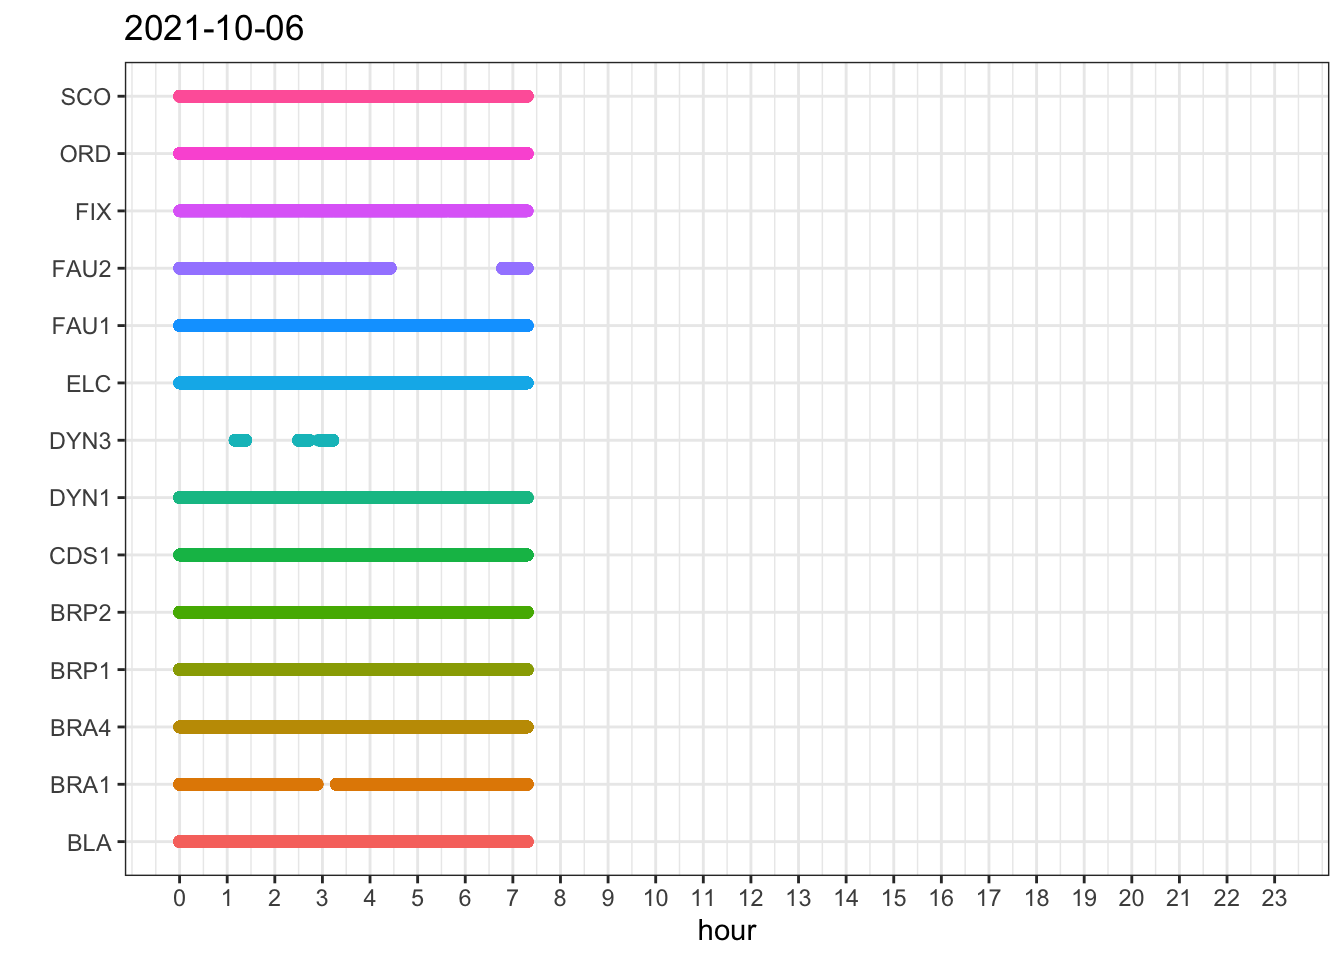
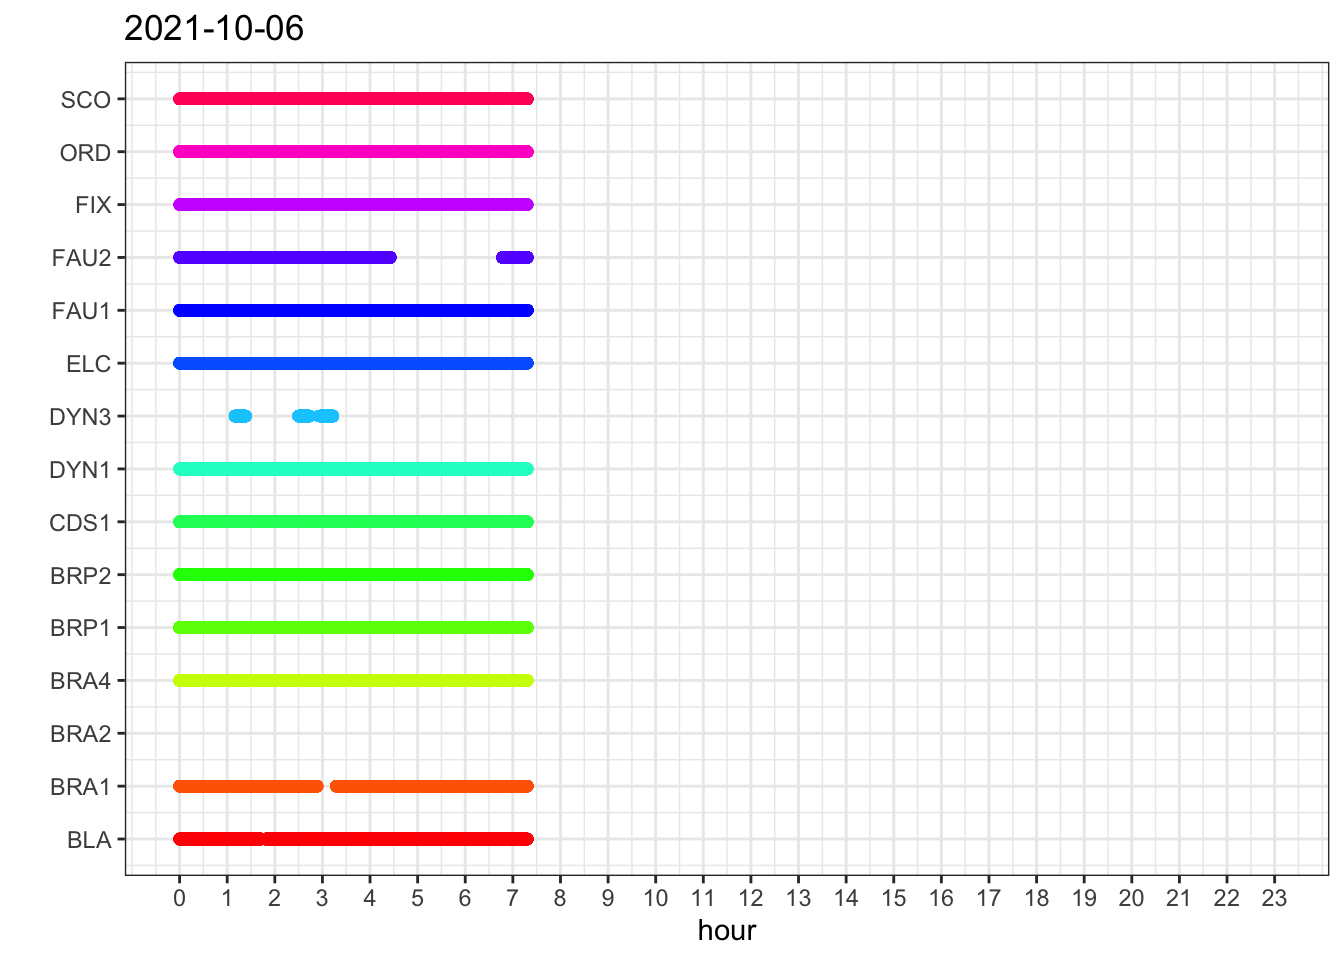
Build site.

diff --git a/docs/2021-10-06.html b/docs/2021-10-06.html
@@ -500,16 +500,16 @@ This reproducible <a href="http://rmarkdown.rstudio.com">R Markdown</a> analysis
 <div class="panel panel-default">
 <div class="panel-heading">
 <p class="panel-title">
-<a data-toggle="collapse" data-parent="#workflowr-checks" href="#strongRepositoryversionstrongahrefhttpsgithubcomcfcforeverTesttreeff40bb450d9ab301c5fcfbab0f48c366a69d336dtargetblankff40bb4a"> <span class="glyphicon glyphicon-ok text-success" aria-hidden="true"></span> <strong>Repository version:</strong> <a href="https://github.com/cfcforever/Test/tree/ff40bb450d9ab301c5fcfbab0f48c366a69d336d" target="_blank">ff40bb4</a> </a>
+<a data-toggle="collapse" data-parent="#workflowr-checks" href="#strongRepositoryversionstrongahrefhttpsgithubcomcfcforeverTesttreed4686a5b7c323b6f8fc9f6ed21d5f6a88f3306fdtargetblankd4686a5a"> <span class="glyphicon glyphicon-ok text-success" aria-hidden="true"></span> <strong>Repository version:</strong> <a href="https://github.com/cfcforever/Test/tree/d4686a5b7c323b6f8fc9f6ed21d5f6a88f3306fd" target="_blank">d4686a5</a> </a>
 </p>
 </div>
[2 lines of base64/hex data omitted]
 <div class="panel-body">
 <p>
 Great! You are using Git for version control. Tracking code development and connecting the code version to the results is critical for reproducibility.
 </p>
 <p>
-The results in this page were generated with repository version <a href="https://github.com/cfcforever/Test/tree/ff40bb450d9ab301c5fcfbab0f48c366a69d336d" target="_blank">ff40bb4</a>. See the <em>Past versions</em> tab to see a history of the changes made to the R Markdown and HTML files.
+The results in this page were generated with repository version <a href="https://github.com/cfcforever/Test/tree/d4686a5b7c323b6f8fc9f6ed21d5f6a88f3306fd" target="_blank">d4686a5</a>. See the <em>Past versions</em> tab to see a history of the changes made to the R Markdown and HTML files.
 </p>
 <p>
 Note that you need to be careful to ensure that all relevant files for the analysis have been committed to Git prior to generating the results (you can use <code>wflow_publish</code> or <code>wflow_git_commit</code>). workflowr only checks the R Markdown file, but you know if there are other scripts or data files that it depends on. Below is the status of the Git repository when the results were generated:
@@ -563,6 +563,40 @@ Message
 </tr>
 </thead>
 <tbody>
+<tr>
+<td>
+Rmd
+</td>
+<td>
+<a href="https://github.com/cfcforever/Test/blob/d4686a5b7c323b6f8fc9f6ed21d5f6a88f3306fd/analysis/2021-10-06.Rmd" target="_blank">d4686a5</a>
+</td>
+<td>
+cfcforever
+</td>
+<td>
+2021-10-06
+</td>
+<td>
+add new analysis
+</td>
+</tr>
+<tr>
+<td>
+html
+</td>
+<td>
+<a href="https://rawcdn.githack.com/cfcforever/Test/13b95467d5f84d183944d746008fbe00b2b87ab4/docs/2021-10-06.html" target="_blank">13b9546</a>
+</td>
+<td>
+cfcforever
+</td>
+<td>
+2021-10-06
+</td>
+<td>
+Build site.
+</td>
+</tr>
 <tr>
 <td>
 Rmd
@@ -780,6 +814,7 @@ nb_tag = length(tagId)
 
 dat = dat[dat$tag%in%tagId,]
 dat$label = factor(dat$tag, levels = names_tag$id, labels = names_tag$label)
+dat$tagn = as.numeric(factor(dat$tag, levels = names_tag$id, labels = 1:nb_tag))
 
 list_tag &lt;- split(dat, dat$tag)</code></pre>
 <div id="quality-of-collecting-data" class="section level2">
@@ -1864,10 +1899,11 @@ SCO
 <div id="plot-with-nas" class="section level3">
 <h3>plot with NAs</h3>
 <pre class="r"><code>timestamp_breaks = as.numeric(as.POSIXct(paste0(today, &quot; &quot;, sprintf(&quot;%02d&quot;, 0:23), &quot;:00:00 CEST&quot;))) + 3600*6
-col = rainbow(nb_tag)
 p &lt;- ggplot(dat) + theme_bw() + 
-  geom_point(aes(x=record_timestamp, y=label, col=label)) +
+  geom_point(aes(x=record_timestamp, y=tagn, col=tagn)) +
   scale_x_continuous(breaks = timestamp_breaks, labels = 0:23) +
+  scale_y_continuous(breaks = 1:nb_tag, labels = names_tag$label) + 
+  scale_color_gradientn(colours = rainbow(nb_tag)) + 
   coord_cartesian(xlim = c(timestamp_breaks[1], timestamp_breaks[23]+3600)) +
   theme(legend.position = &quot;None&quot;) +
   labs(x = &quot;hour&quot;, y = &quot;&quot;, title = today)
@@ -1924,10 +1960,11 @@ cat(&quot;if x_na = y_na:&quot;, identical(x_na, y_na), &quot;\n&quot;)</code></
   dat = dat[-x_na,]
 }</code></pre>
 <pre class="r"><code>timestamp_breaks = as.numeric(as.POSIXct(paste0(today, &quot; &quot;, sprintf(&quot;%02d&quot;, 0:23), &quot;:00:00 CEST&quot;))) + 3600*6
-col = rainbow(nb_tag)
 p &lt;- ggplot(dat) + theme_bw() + 
-  geom_point(aes(x=record_timestamp, y=label, col=label)) +
+  geom_point(aes(x=record_timestamp, y=tagn, col=tagn)) +
   scale_x_continuous(breaks = timestamp_breaks, labels = 0:23) +
+  scale_y_continuous(breaks = 1:nb_tag, labels = names_tag$label) + 
+  scale_color_gradientn(colours = rainbow(nb_tag)) + 
   coord_cartesian(xlim = c(timestamp_breaks[1], timestamp_breaks[23]+3600)) +
   theme(legend.position = &quot;None&quot;) +
   labs(x = &quot;hour&quot;, y = &quot;&quot;, title = today)
